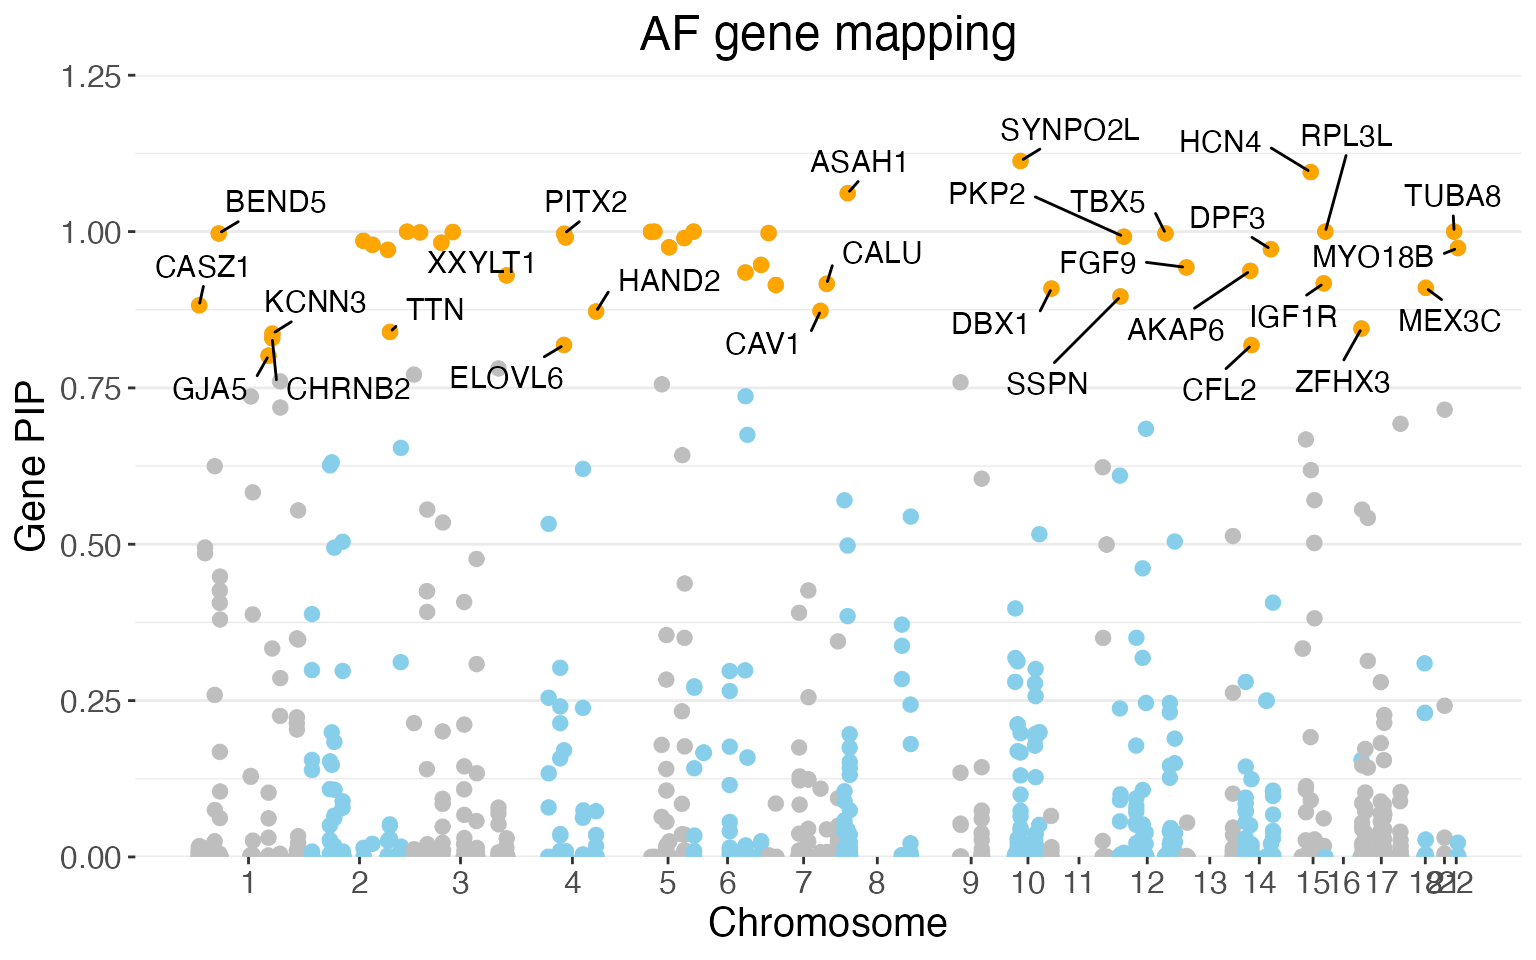
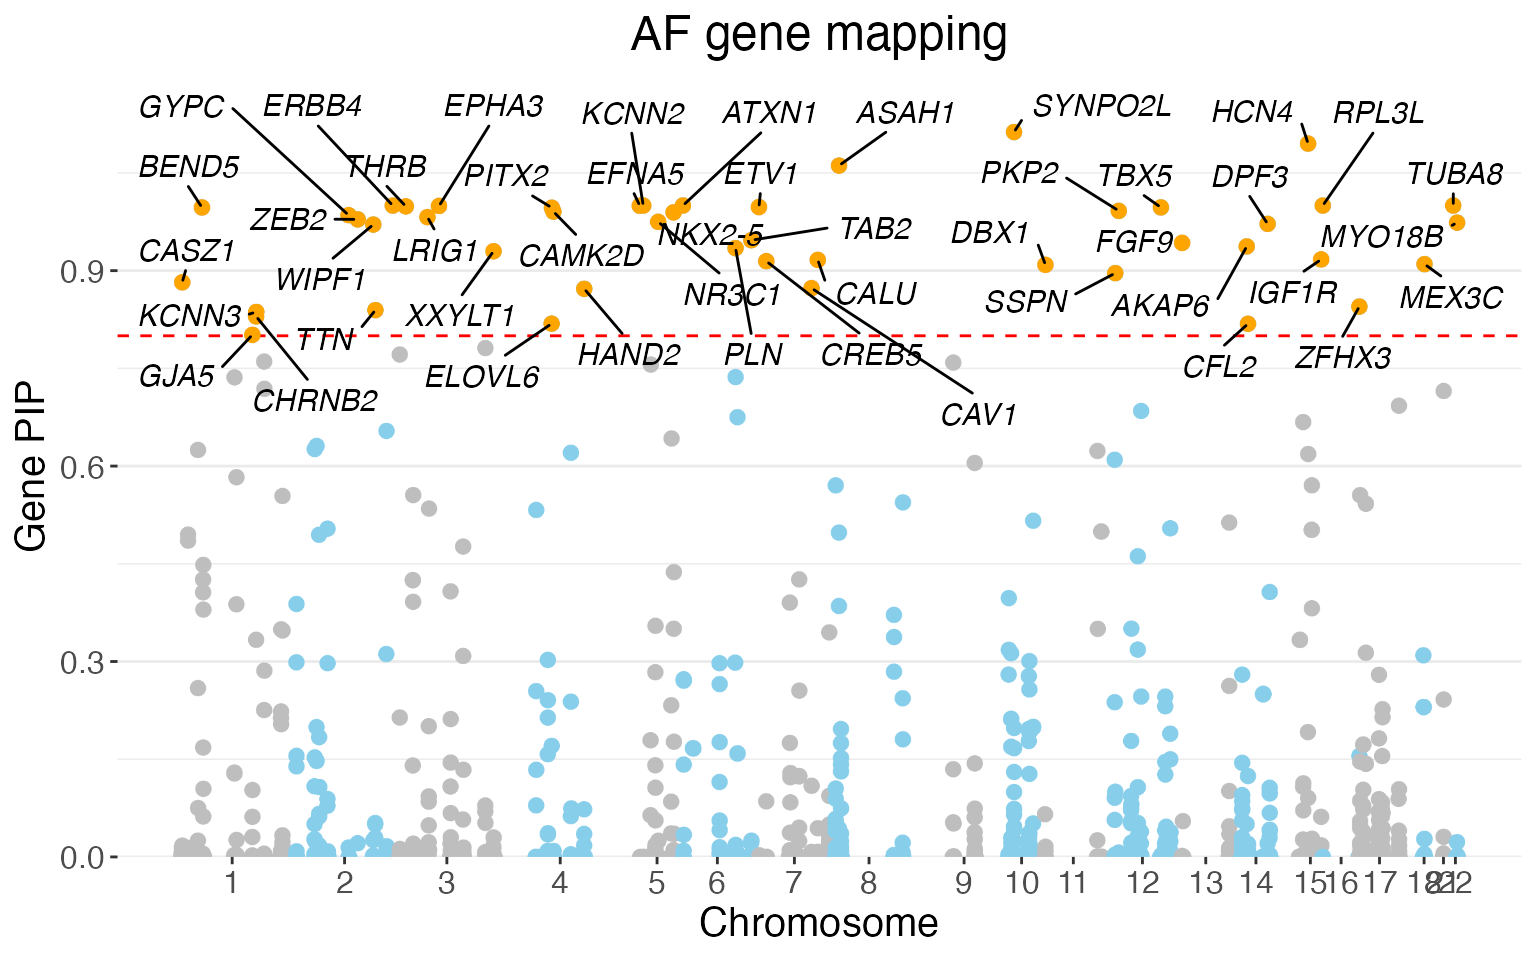
updated website

diff --git a/docs/articles/gene_mapping_tutorial.html b/docs/articles/gene_mapping_tutorial.html
@@ -33,7 +33,7 @@
       </button>
       <span class="navbar-brand">
         <a class="navbar-link" href="../index.html">mapgen</a>
-        <span class="version label label-default" data-toggle="tooltip" data-placement="bottom" title="">0.4.0</span>
+        <span class="version label label-default" data-toggle="tooltip" data-placement="bottom" title="">0.4.1</span>
       </span>
     </div>
 
@@ -257,7 +257,8 @@ containing the introns).</li>
 <p>Extract gene-level result table</p>
 <div class="sourceCode" id="cb18"><pre class="downlit sourceCode r">
 <code class="sourceCode R"><span><span class="va">gene.pip.res</span> <span class="op">&lt;-</span> <span class="fu"><a href="../reference/extract_gene_level_result.html">extract_gene_level_result</a></span><span class="op">(</span><span class="va">gene.mapping.res</span>, <span class="va">gene.annots</span><span class="op">)</span></span></code></pre></div>
-<pre><code><span><span class="co">## Extract gene level result ...</span></span></code></pre>
+<pre><code><span><span class="co">## Extract gene level result ...</span></span>
+<span><span class="co">## Remove 6 genes not included in gene.annots...</span></span></code></pre>
 <div class="sourceCode" id="cb20"><pre class="downlit sourceCode r">
 <code class="sourceCode R"><span><span class="fu"><a href="https://rdrr.io/r/utils/head.html" class="external-link">head</a></span><span class="op">(</span><span class="va">gene.pip.res</span><span class="op">)</span></span></code></pre></div>
 <pre><code><span><span class="co">##    chr       pos gene_name    gene_pip</span></span>
@@ -303,7 +304,7 @@ containing the introns).</li>
 <p>Make a Manhattan plot of the gene PIPs, and label genes with gene PIP
 &gt; 0.8.</p>
 <div class="sourceCode" id="cb26"><pre class="downlit sourceCode r">
-<code class="sourceCode R"><span><span class="fu"><a href="../reference/gene_manhattan_plot.html">gene_manhattan_plot</a></span><span class="op">(</span><span class="va">gene.pip.res</span>, sig.pip <span class="op">=</span> <span class="fl">0.8</span>, title <span class="op">=</span> <span class="st">"AF gene mapping"</span><span class="op">)</span></span></code></pre></div>
+<code class="sourceCode R"><span><span class="fu"><a href="../reference/gene_manhattan_plot.html">gene_manhattan_plot</a></span><span class="op">(</span><span class="va">gene.pip.res</span>, sig.pip <span class="op">=</span> <span class="fl">0.8</span>, title <span class="op">=</span> <span class="st">"AF gene mapping"</span>, max.overlaps <span class="op">=</span> <span class="fl">45</span><span class="op">)</span></span></code></pre></div>
 <p><img src="gene_mapping_tutorial_files/figure-html/gene-manhattan-plot-1.png" width="768"></p>
 </div>
   </div>

diff --git a/docs/index.html b/docs/index.html
@@ -33,7 +33,7 @@
       </button>
       <span class="navbar-brand">
         <a class="navbar-link" href="index.html">mapgen</a>
-        <span class="version label label-default" data-toggle="tooltip" data-placement="bottom" title="">0.4.0</span>
+        <span class="version label label-default" data-toggle="tooltip" data-placement="bottom" title="">0.4.1</span>
       </span>
     </div>
 
@@ -89,7 +89,7 @@
 <code class="sourceCode R"><span><span class="co"># install.packages("remotes")</span></span>
 <span><span class="fu">remotes</span><span class="fu">::</span><span class="fu"><a href="https://remotes.r-lib.org/reference/install_github.html" class="external-link">install_github</a></span><span class="op">(</span><span class="st">"xinhe-lab/mapgen"</span><span class="op">)</span></span></code></pre></div>
 <ul>
-<li>Please install <code>susieR</code> package, if you want to run finemapping with GWAS summary statistics using SuSiE.</li>
+<li>Please install <a href="https://github.com/stephenslab/susieR" class="external-link">susieR</a> package, if you want to run finemapping with GWAS summary statistics using SuSiE.</li>
 <li>Please install <a href="https://github.com/xqwen/torus" class="external-link">TORUS</a> software package, if you want to run enrichment analysis using TORUS.</li>
 </ul>
 <p>After installing, check that it loads properly:</p>
@@ -110,7 +110,7 @@
 <li>Use our novel gene mapping procedure to infer causal genes at each locus.</li>
 </ol>
 <p><img src="reference/figures/workflow.overview.png" width="75%"></p>
-<p>Please follow the <a href="https://xinhe-lab.github.io/mapgen/articles/index.html">tutorials</a> to learn how to use the package.</p>
+<p>Please follow the <a href="https://xinhe-lab.github.io/mapgen/articles/index.html">tutorials</a> to use the package.</p>
 </div>
 <div class="section level2">
 <h2 id="reference">Reference<a class="anchor" aria-label="anchor" href="#reference"></a>

diff --git a/docs/authors.html b/docs/authors.html
@@ -17,7 +17,7 @@
       </button>
       <span class="navbar-brand">
         <a class="navbar-link" href="index.html">mapgen</a>
-        <span class="version label label-default" data-toggle="tooltip" data-placement="bottom" title="">0.4.0</span>
+        <span class="version label label-default" data-toggle="tooltip" data-placement="bottom" title="">0.4.1</span>
       </span>
     </div>
 
@@ -82,13 +82,13 @@
 
     <p>Luo K, Selewa A, Pott S, He X (2023).
 <em>mapgen: Performs gene mapping based on functionally-informed genetic fine-mapping</em>.
-R package version 0.4.0. 
+R package version 0.4.1. 
 </p>
     <pre>@Manual{,
   title = {mapgen: Performs gene mapping based on functionally-informed genetic fine-mapping},
   author = {Kaixuan Luo and Alan Selewa and Sebastian Pott and Xin He},
   year = {2023},
-  note = {R package version 0.4.0},
+  note = {R package version 0.4.1},
 }</pre>
 
   </div>

diff --git a/docs/reference/compile_structure_plot_data.html b/docs/reference/compile_structure_plot_data.html
@@ -18,7 +18,7 @@ https://stephenslab.github.io/fastTopics/"><!-- mathjax --><script src="https://
       </button>
       <span class="navbar-brand">
         <a class="navbar-link" href="../index.html">mapgen</a>
-        <span class="version label label-default" data-toggle="tooltip" data-placement="bottom" title="">0.4.0</span>
+        <span class="version label label-default" data-toggle="tooltip" data-placement="bottom" title="">0.4.1</span>
       </span>
     </div>
 

diff --git a/docs/reference/merge_susie_sumstats.html b/docs/reference/merge_susie_sumstats.html
@@ -18,7 +18,7 @@ This function assumes L = 1. ONLY ONE CREDIBLE SET PER LOCUS!"><!-- mathjax --><
       </button>
       <span class="navbar-brand">
         <a class="navbar-link" href="../index.html">mapgen</a>
-        <span class="version label label-default" data-toggle="tooltip" data-placement="bottom" title="">0.4.0</span>
+        <span class="version label label-default" data-toggle="tooltip" data-placement="bottom" title="">0.4.1</span>
       </span>
     </div>
 

diff --git a/docs/reference/prepare_torus_input_files.html b/docs/reference/prepare_torus_input_files.html
@@ -18,7 +18,7 @@ z-score file and annotation file."><!-- mathjax --><script src="https://cdnjs.cl
       </button>
       <span class="navbar-brand">
         <a class="navbar-link" href="../index.html">mapgen</a>
-        <span class="version label label-default" data-toggle="tooltip" data-placement="bottom" title="">0.4.0</span>
+        <span class="version label label-default" data-toggle="tooltip" data-placement="bottom" title="">0.4.1</span>
       </span>
     </div>
 

diff --git a/docs/reference/run_finemapping.html b/docs/reference/run_finemapping.html
@@ -18,7 +18,7 @@ for all LD blocks with prior probabilities computed by TORUS"><!-- mathjax --><s
       </button>
       <span class="navbar-brand">
         <a class="navbar-link" href="../index.html">mapgen</a>
-        <span class="version label label-default" data-toggle="tooltip" data-placement="bottom" title="">0.4.0</span>
+        <span class="version label label-default" data-toggle="tooltip" data-placement="bottom" title="">0.4.1</span>
       </span>
     </div>
 

diff --git a/docs/reference/run_torus.html b/docs/reference/run_torus.html
@@ -18,7 +18,7 @@ compute SNP-level priors using the enrichment estimates."><!-- mathjax --><scrip
       </button>
       <span class="navbar-brand">
         <a class="navbar-link" href="../index.html">mapgen</a>
-        <span class="version label label-default" data-toggle="tooltip" data-placement="bottom" title="">0.4.0</span>
+        <span class="version label label-default" data-toggle="tooltip" data-placement="bottom" title="">0.4.1</span>
       </span>
     </div>
 

diff --git a/docs/reference/structure_plot.html b/docs/reference/structure_plot.html
@@ -18,7 +18,7 @@ https://stephenslab.github.io/fastTopics/"><!-- mathjax --><script src="https://
       </button>
       <span class="navbar-brand">
         <a class="navbar-link" href="../index.html">mapgen</a>
-        <span class="version label label-default" data-toggle="tooltip" data-placement="bottom" title="">0.4.0</span>
+        <span class="version label label-default" data-toggle="tooltip" data-placement="bottom" title="">0.4.1</span>
       </span>
     </div>
 

diff --git a/docs/reference/sum_pip_annots.html b/docs/reference/sum_pip_annots.html
@@ -20,7 +20,7 @@ assign SNPs to annotations with the priority of the earlier category"><!-- mathj
       </button>
       <span class="navbar-brand">
         <a class="navbar-link" href="../index.html">mapgen</a>
-        <span class="version label label-default" data-toggle="tooltip" data-placement="bottom" title="">0.4.0</span>
+        <span class="version label label-default" data-toggle="tooltip" data-placement="bottom" title="">0.4.1</span>
       </span>
     </div>
 

diff --git a/docs/404.html b/docs/404.html
@@ -32,7 +32,7 @@
       </button>
       <span class="navbar-brand">
         <a class="navbar-link" href="https://xinhe-lab.github.io/mapgen/index.html">mapgen</a>
-        <span class="version label label-default" data-toggle="tooltip" data-placement="bottom" title="">0.4.0</span>
+        <span class="version label label-default" data-toggle="tooltip" data-placement="bottom" title="">0.4.1</span>
       </span>
     </div>
 

diff --git a/docs/articles/enrichment_finemapping_tutorial.html b/docs/articles/enrichment_finemapping_tutorial.html
@@ -33,7 +33,7 @@
       </button>
       <span class="navbar-brand">
         <a class="navbar-link" href="../index.html">mapgen</a>
-        <span class="version label label-default" data-toggle="tooltip" data-placement="bottom" title="">0.4.0</span>
+        <span class="version label label-default" data-toggle="tooltip" data-placement="bottom" title="">0.4.1</span>
       </span>
     </div>
 
